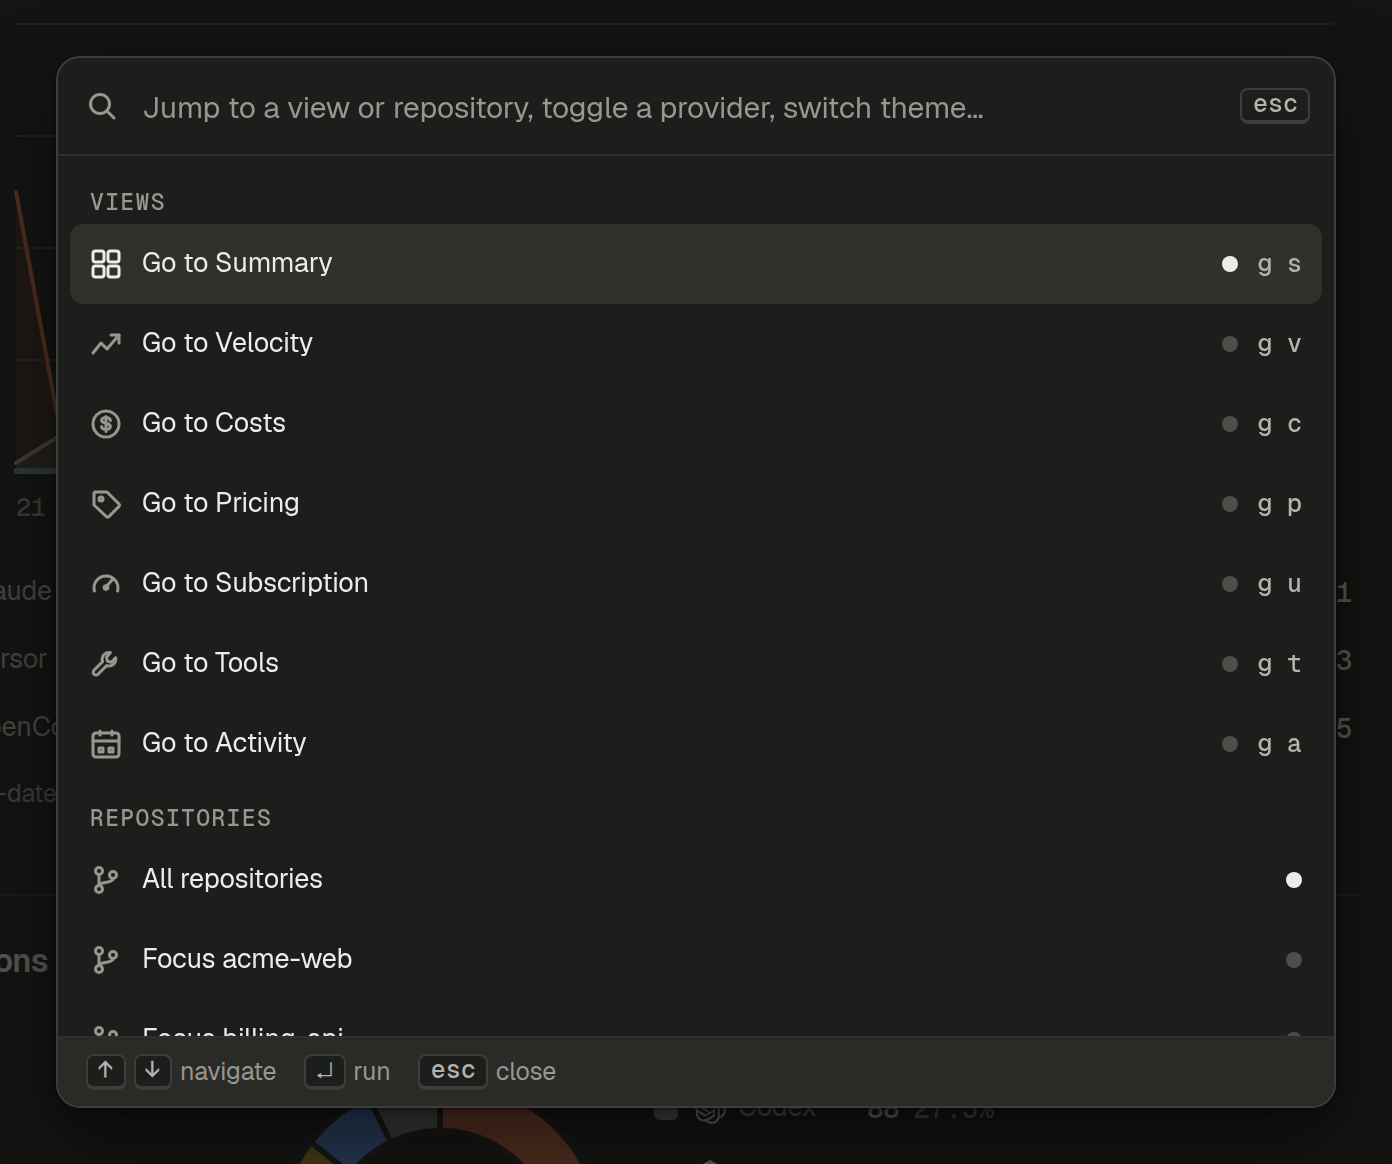
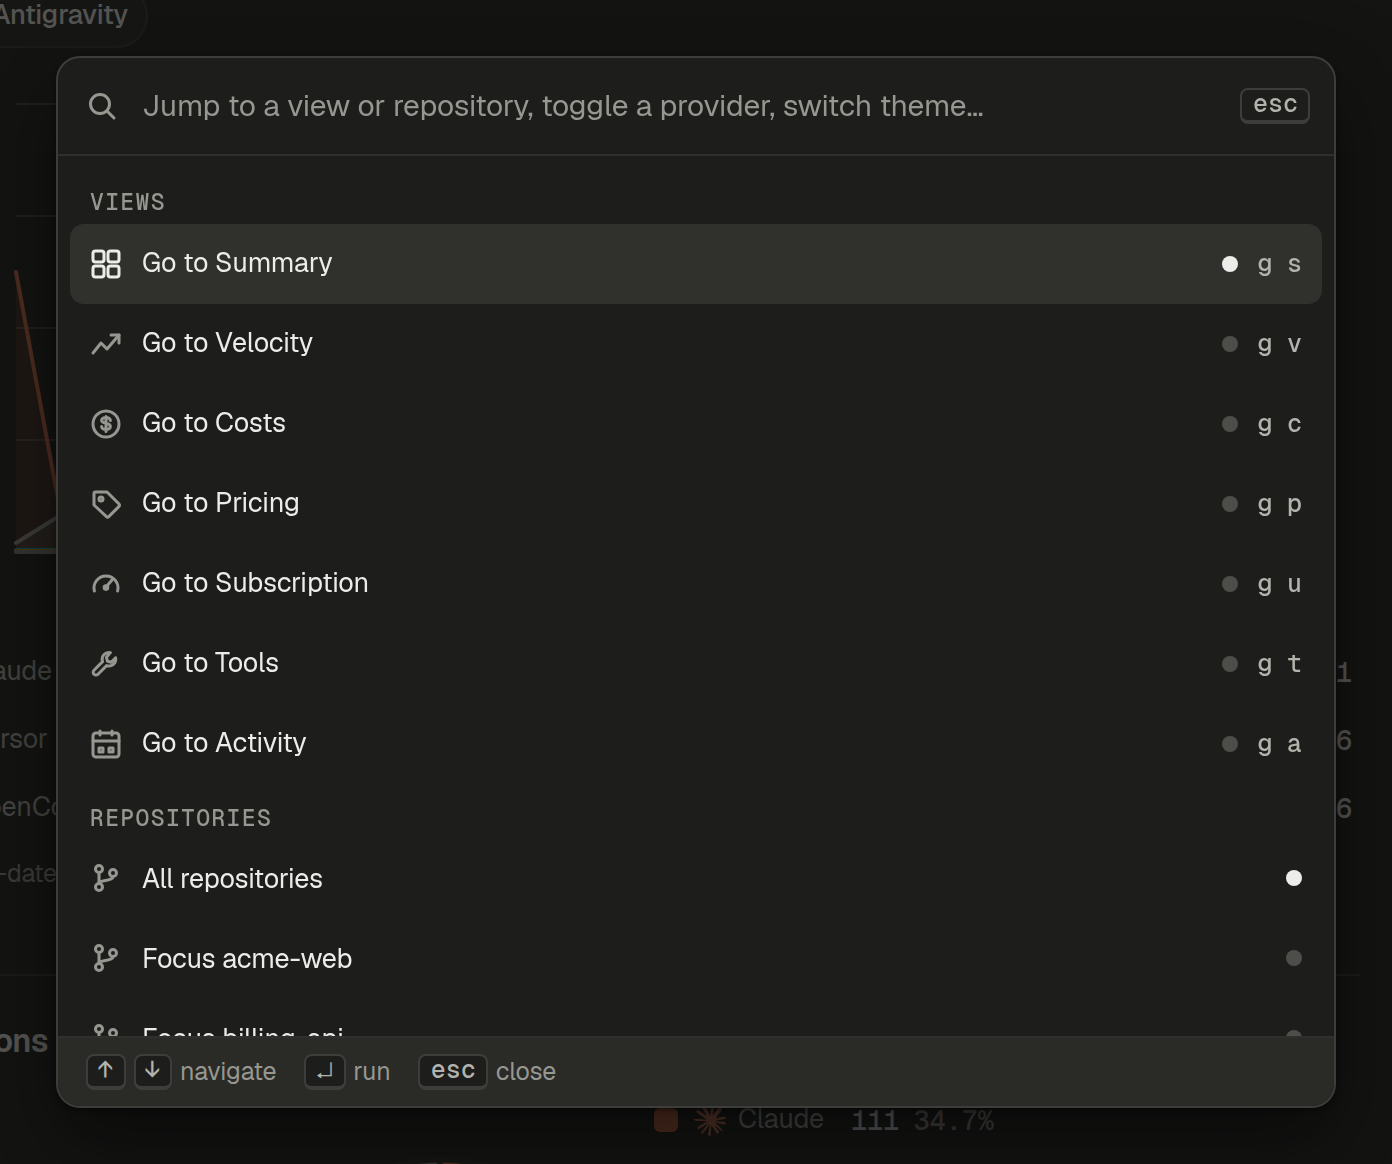
docs: refresh screenshots for the brand marks and the UI review fixes
All 26 README captures again from the synthetic demo at 448efe3, now
showing the brand marks for every provider, the Top increases table and
the other dashboard fixes from the 2026-10-20 review. The capture script
looks for the renamed Top increases heading; provenance records the
baseline, port and snapshot time.

diff --git a/scripts/screenshots.ts b/scripts/screenshots.ts
@@ -48,7 +48,7 @@ const CAPTURES: Capture[] = [
     js: "document.querySelector('[data-view-panel=velocity] details').open = true",
     fitJs: "(() => { const s = [...document.querySelectorAll('[data-view-panel=velocity] summary')].find((e) => e.textContent.includes('How the comparisons')); return s.closest('details').getBoundingClientRect().top - 16; })()",
   },
-  { name: "velocity-movers", view: "velocity", clipJs: "__rect(__p('Top movers'))", pad: 14 },
+  { name: "velocity-movers", view: "velocity", clipJs: "__rect(__p('Top increases'))", pad: 14 },
   { name: "costs", view: "costs", fitJs: panelBottom("Cost by model") },
   { name: "pricing", view: "pricing", fitJs: panelBottom("Model prices") },
   {

diff --git a/assets/SCREENSHOTS.md b/assets/SCREENSHOTS.md
@@ -2,18 +2,18 @@
 
 Dashboard screenshots contain synthetic fixtures only. They do not show developer session history.
 
-All 26 captures were refreshed on 2026-10-20 from `node scripts/demo.ts --no-open --port 4193` with `node scripts/screenshots.ts --url http://127.0.0.1:4193`. The source baseline is `ec8fbd0`, including Antigravity support and the seven-view navigation.
+All 26 captures were refreshed on 2026-10-20 from `node scripts/demo.ts --no-open --port 4175` with `node scripts/screenshots.ts --url http://127.0.0.1:4175`. The source baseline is `448efe3`, including the brand marks for every provider, the Top increases table and the dashboard fixes from the 2026-10-20 UI review.
 
-The captured snapshot was generated at `2026-10-20T18:11:15.267Z`: 481 sessions across six fictional repositories and all seven providers, including 24 Antigravity sessions. Antigravity's token/tool fixtures contribute to provider charts, repository breakdowns, tool-call totals and coverage. These fixtures do not establish live Antigravity calibration or support for legacy `.pb` histories.
+The captured snapshot was generated at `2026-10-20T22:55:44.710Z`: 481 sessions across six fictional repositories and all seven providers, including 24 Antigravity sessions. Antigravity's token/tool fixtures contribute to provider charts, repository breakdowns, tool-call totals and coverage. These fixtures do not establish live Antigravity calibration or support for legacy `.pb` histories.
 
 Desktop views use 1280 CSS pixels, comfortable density and the default 30-day window in both themes. Velocity opens with the default Model grouping. Summary includes the complete totals rail and provider breakdown. Subscription waits for its synthetic meters (two Claude profiles and one Codex account), then ends below the first row of account cards.
 
-The mobile pair uses 375 × 812 CSS pixels, compact density and the same window. Chrome captures every image at 2× scale; ImageMagick converts the PNGs to lossless WebP without resizing. Detail captures are clipped to their panels with padding; longer views show their opening viewport. No real-history dashboard or proxy is used.
+The mobile pair uses 375 × 812 CSS pixels, compact density and the same window. Chrome captures every image at 2× scale; `cwebp` converts the PNGs to lossless WebP without resizing. Detail captures are clipped to their panels with padding; longer views show their opening viewport. No real-history dashboard or proxy is used.
 
 For scripted regeneration, start a synthetic demo and run:
 
 ```sh
-node scripts/screenshots.ts --url http://127.0.0.1:4193
+node scripts/screenshots.ts --url http://127.0.0.1:4175
 ```
 
 The script requires Chrome and either `cwebp` or ImageMagick (`magick`), produces 2× images, and accepts `--only mobile` for the phone pair. It prefers `cwebp` when available; both conversion paths are lossless. Never point it at a dashboard containing real session history before copying output into the repository.
